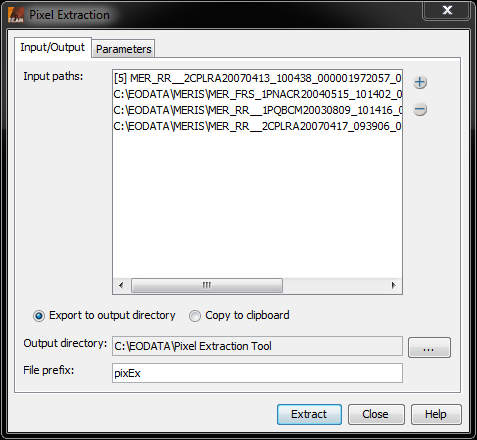
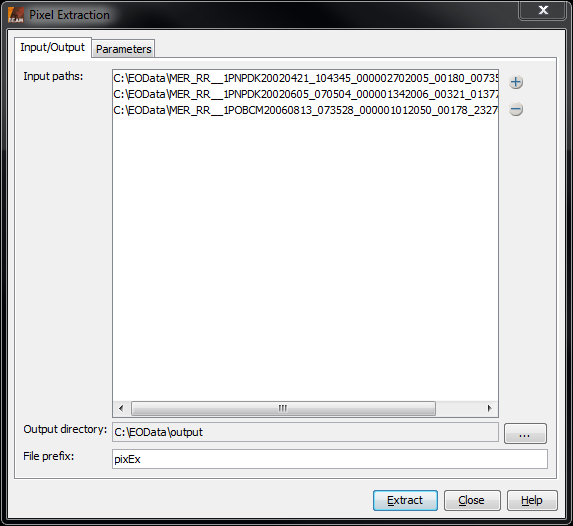
updated help for PixEx

Changed region(s): [[0.0, 0.0, 1.0, 1.0]]

diff --git a/beam-pixel-extraction/src/main/resources/doc/help/pixelExtraction/PixelExtraction.html b/beam-pixel-extraction/src/main/resources/doc/help/pixelExtraction/PixelExtraction.html
@@ -1,5 +1,5 @@
 <!--
-  ~ Copyright (C) 2010 Brockmann Consult GmbH (info@brockmann-consult.de)
+  ~ Copyright (C) 2011 Brockmann Consult GmbH (info@brockmann-consult.de)
   ~
   ~ This program is free software; you can redistribute it and/or modify it
   ~ under the terms of the GNU General Public License as published by the Free
@@ -59,7 +59,7 @@
         # Expression: l1_flags.LAND_OCEAN<br/>
         # Created on: 2010-09-17 14:53:21<br/>
     </code><br/>
-    The header is followed by the table with the actual data; it might exemplarily look like this:<br/><br/>
+    The header is followed by the table with the actual data; it might look like the following:<br/><br/>
 <table>
     <tbody>
     <tr>
@@ -186,11 +186,6 @@
     </tbody>
 </table>
 
-<p>
-    Note that the two output formats slightly differ: when saving to disk, a file for each product type is
-    created, plus an additional file storing a mapping from product ids used in the output tables to data products.
-    When, however, using the clipboard, all values are copied at once.
-</p>
 
 <h3>The User Interface</h3>
 
@@ -207,28 +202,30 @@
 </p>
 
 <p align="center">
-    <img src="images/ioform.png" alt="ioform"/><br/>
-    <font size="2">Screenshot 1 - The Input/Output Pane</font>
+    <img src="images/ioform.png"/><br/>
+    <span style="font-size: x-small; ">The Input/Output Pane</span>
 </p>
 
-<p>
-    The list of <b>input paths</b> contains data products already chosen for extraction as well as paths to be searched
-    for
-    data products. By default, the product selected in VISAT (if there is any) appears in the list. Using the
-    <img src="images/plus.png" alt="plusbutton">-Button, data products can be added to the list in multiple ways: by
-    choosing a product already opened in VISAT, by choosing a product from the file system, or by specifying a
-    directory on the file system which is to be searched for data products (optionally recursively).
+<p class="i1">
+    <b>Input paths:</b>
+    The list contains the data products already chosen for extraction as well as paths to be searched
+    for data products. Using the <img src="images/plus.png" alt="plusbutton">-Button, data products can be added to
+    the list in multiple ways:
+<ul>
+    <li>by choosing a product already opened in VISAT</li>
+    <li>by choosing a product from the file system</li>
+    <li>by specifying a directory</li>
+    <li>or by specifying a directory recursively (indicated by '**' in the list)</li>
+</ul>
+
+<p class="i1">
+    <b>Output directory:</b>
+    All output is written to the selected directory.
 </p>
 
-<p>
-    The radio button below the list containing the input paths allows to specify the <b>output mode</b>: the extracted
-    pixel
-    values may either be saved in a directory (which may be specified using the box below) or be copied to the
-    clipboard, allowing the user to paste them into another tool, typically a spreadsheet program.
-</p>
-
-<p>
-    Lastly, a <b>filename prefix</b> may be specified if the values are to be written into files on disk.
+<p class="i1">
+    <b>File prefix:</b>
+    The specified file prefix is used to prefix the files which are written.
 </p>
 
 <h4>The Parameters Pane</h4>
@@ -238,40 +235,60 @@
 </p>
 
 <p align="center">
-    <img src="images/parametersform.png" alt="parametersform"/><br/>
-    <font size="2">Screenshot 2 - The Parameters Pane</font>
+    <img src="images/parametersform.png"/><br/>
+    <span style="font-size: x-small; ">The Parameters Pane</span>
 </p>
 
-<p>
-    The <b>coordinates table</b> shows the user-specified geographic coordinates which are used to extract the values.
-    They
-    consist of a name and their latitude/longitude-values. Initially, the table is filled with the pins of the product
-    currently selected in VISAT; additional coordinates may be added either by newly creating them or by reading them
-    from an exported pin file.
+<p class="i1">
+    <b>Coordinates:</b>
+    The coordinates table shows the user-specified geographic coordinates which are used to extract the values.
+    They consist of a name and their latitude/longitude-values. Initially, the table is filled with the pins of the
+    product
+    currently selected in VISAT. Additional coordinates may be added either by creating new coordinates or by reading
+    them
+    from a pin file.<br/>
+    Additionally to the standard format of a pin file, the coordinates file file can have a 'DateTime' column.
+    The format of the time value follows the ISO8601 pattern: yyyy-MM-dd'T'HH:mm:ss
 </p>
 
-<p>
-    The considered <b>export sources</b> may be delimited using three checkboxes, one each for bands, tie-point grids,
-    and
-    masks.
+<p class="i1">
+    <b>Allowed time difference:</b>
+    Specifies how big the difference might be between the time at the pixel and the time of the coordinate.
 </p>
 
-<p>
-    The <b>window size</b> specifies the number of pixels surrounding the pixels derived from the given geographic
-    coordinates
-    to be exported. That is, when setting the window size to 3, the values for 9 pixels will be extracted. The window
-    size always is odd.
+<p class="i1">
+    <b>Export:</b>
+    Specifies if bands, tie-point grids and/or masks should be included in the output.
 </p>
 
-<p>
-    A <b>band maths expression</b> can be specified to filter the values to output. The "Edit Expression..."-button
-    opens
-    the expression editor, which can be used for easily editing an expression. It is only available if the
+<p class="i1">
+    <b>Window size:</b>
+    The window size specifies the number of pixels surrounding the pixels derived from the given geographic
+    coordinates to be exported. That is, when setting the window size to 3, the values for 9 pixels will be extracted.
+    The window size must be odd.
+</p>
+
+<p class="i1">
+    <b>Expression:</b>
+    A band maths expression can be specified to filter the values to output. The "Edit Expression..."-button
+    opens the expression editor, which can be used for easily editing an expression. It is only available if the
     input product list of the "Input/Output"-pane contains at least one data product; however, in any case an expression
     may manually be declared.<br>
     There are two options of how to use the expression: either the expression is used to filter the values to output,
     that is, values which do not satisfy the expression are ignored. In the other case, the information if the value met
     the expression is added to the output.
+</p>
+
+<p class="i1">
+    <b>Sub-scenes:</b>
+    Enables the export of sub-scenes. The scenes contain at least all coordinates (including the specified window)
+    found in one product. Additionally the size of a border can be specified by which the exported scene size extended.
+</p>
+
+<p class="i1">
+    <b>KMZ coordinates:</b>
+    All coordinates considered for the output are collected in one KMZ file. Which can be used to display the
+    coordinates in Google Earth.
 </p>
 
 <p>&nbsp;</p>
